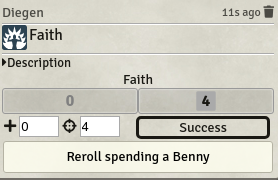
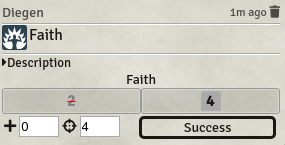
Release 1.0.4

diff --git a/CHANGELOG.md b/CHANGELOG.md
@@ -1,5 +1,14 @@
 # Changelog
 
+# 1.0.4
+
+* Big refactoring. Breaking the main roll class in two to get simpler code.
+* Discarded dice are grey even when exploded and marked with a red line.
+* Clickable icons now change the cursor shape and show a shadow when hovering over them.
+* CSS fixes for the skill list. I hope that they look better both in character and npc sheets.
+* BUGFIX: Always get a skill for an attack roll even when there are edges with the same name.
+* BUGFIX: Use Critical Failure instead of Fumble as it is the official wording.
+
 # 1.0.3
 
 * Bugfix in Hellfrost skill list

diff --git a/README.md b/README.md
@@ -1,7 +1,7 @@
 # Better rolls for SWADE
 A module modifying FoundryVTT Savage Worlds character sheets ripping ideas (and code) from the Better rolls for 5e module.
 
-## Skill Rolls (character sheets only)
+## Skill Rolls
 
 The module will show an image before the skill name. 
 
